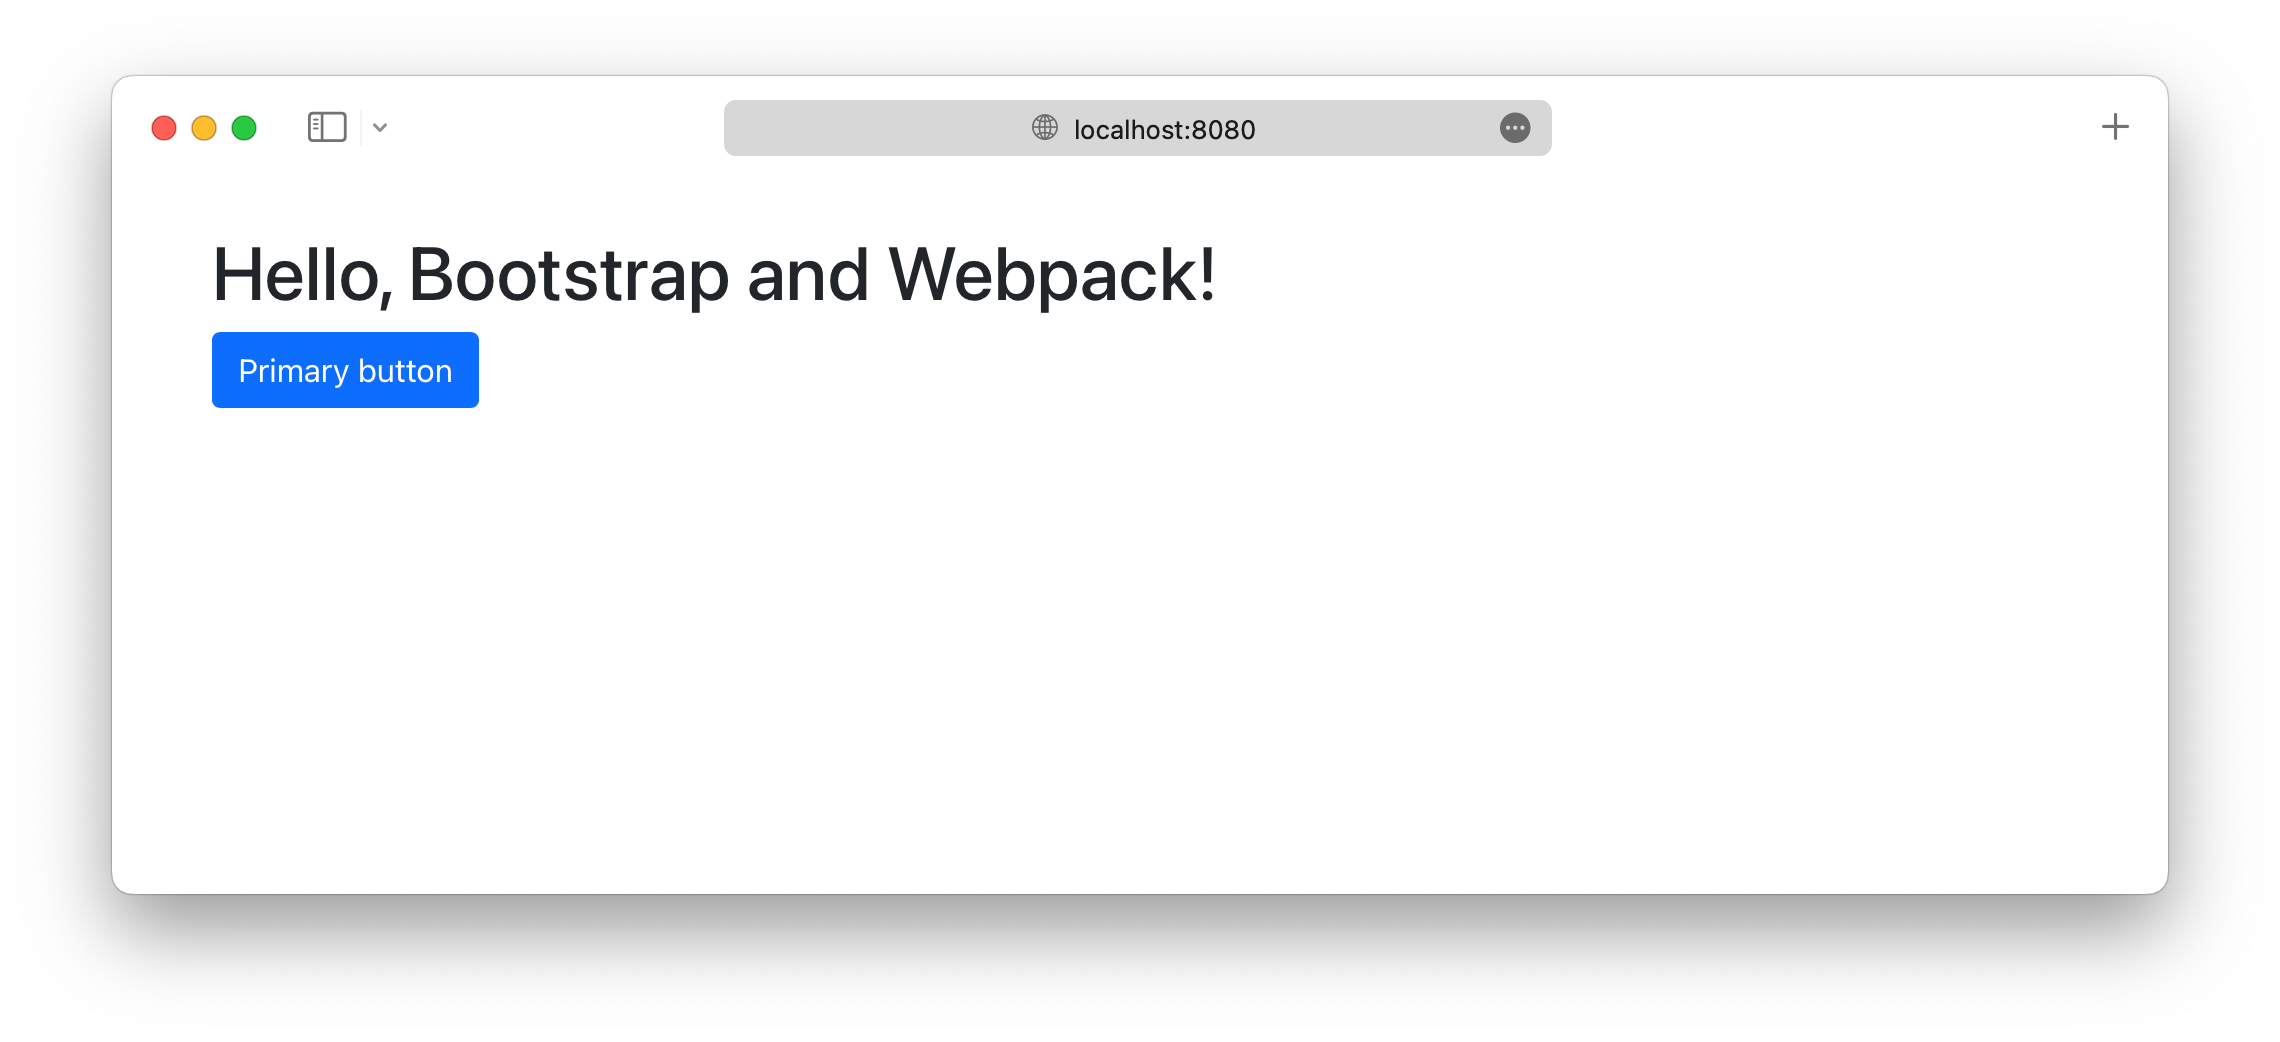
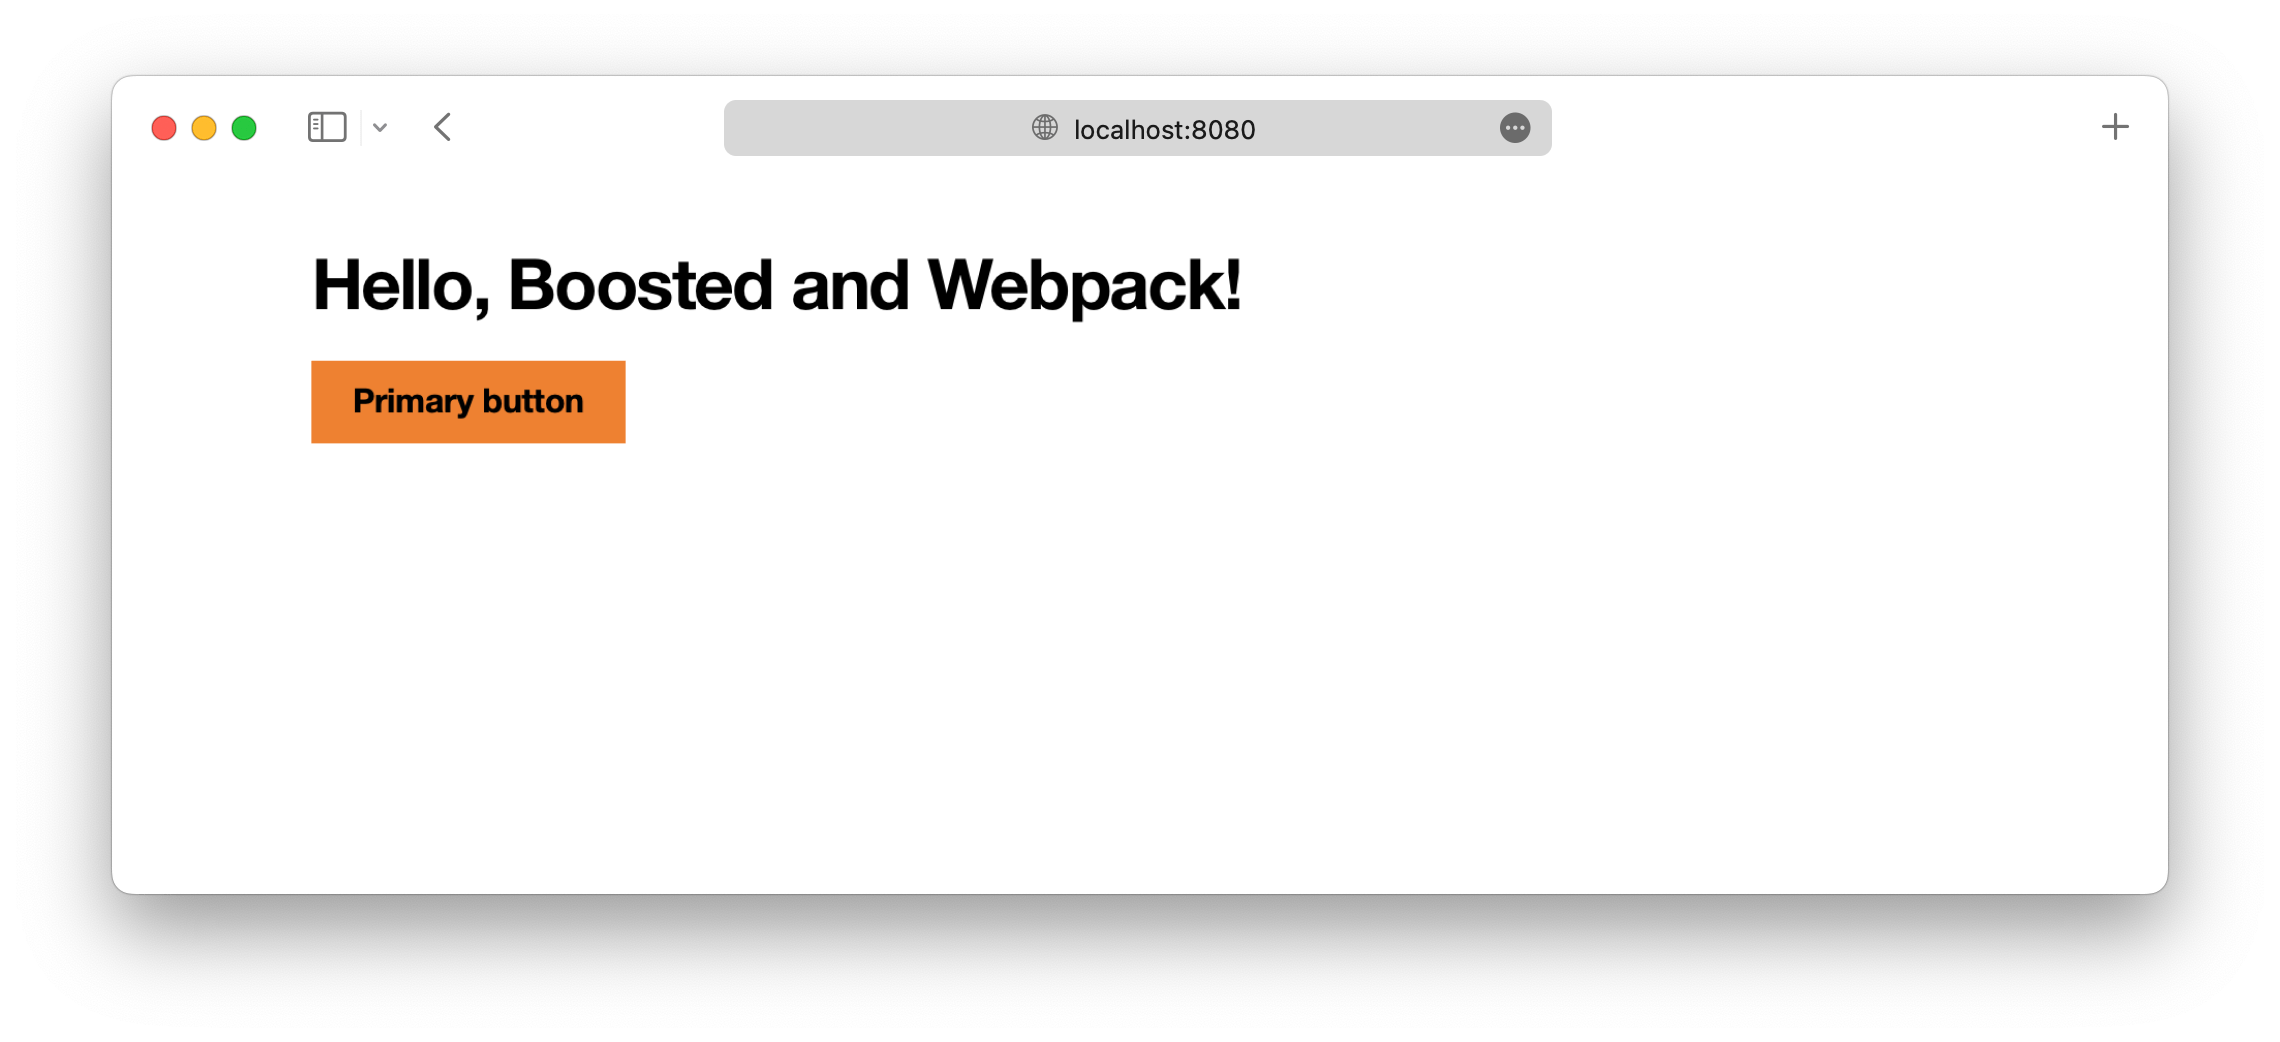
Improve Webpack guide

Changed region(s): [[0.0934, 0.2457, 0.5605, 0.4299]]

diff --git a/site/content/docs/5.2/getting-started/webpack.md b/site/content/docs/5.2/getting-started/webpack.md
@@ -201,19 +201,25 @@ Importing Boosted into Webpack requires the loaders we installed in the first se
 
    Here's a recap of why we need all these loaders. `style-loader` injects the CSS into a `<style>` element in the `<head>` of the HTML page, `css-loader` helps with using `@import` and `url()`, `postcss-loader` is required for Autoprefixer, and `sass-loader` allows us to use Sass.
 
-2. **Now, let's import Boosted's font and CSS.** Assuming that you already have the fonts inside your project, add the following to `src/scss/styles.scss` to import all of Boosted's source Sass.
+2. **Let's import Boosted's fonts.** Download the WOFF2 version of our Helvetica Neue fonts, **limited to Orange brand usage**: [see `NOTICE.txt` for more information about Helvetica Neue license]({{< param repo >}}/blob/v{{< param current_version >}}/NOTICE.txt).
+
+   ```sh
+   mkdir src/fonts
+   cp /path/HelvNeue55_W1G.woff2 src/fonts/
+   cp /path/HelvNeue75_W1G.woff2 src/fonts/
+   ```
+
+3. **Now, let's import Boosted's CSS.** Add the following to `src/scss/styles.scss` to import all of Boosted's source Sass.
 
    ```scss
    // Import all of Boosted's CSS
-   $font-path: "relative-path-to/font-folder/";
-
    @import "~boosted/scss/orange-helvetica";
    @import "~boosted/scss/boosted";
    ```
 
    *You can also import our stylesheets individually if you want. [Read our Sass import docs]({{< docsref "/customize/sass#importing" >}}) for details.*
 
-3. **Next we load the CSS and import Boosted's JavaScript.** Add the following to `src/js/main.js` to load the CSS and import all of Boosted's JS. Popper will be imported automatically through Boosted.
+4. **Next we load the CSS and import Boosted's JavaScript.** Add the following to `src/js/main.js` to load the CSS and import all of Boosted's JS. Popper will be imported automatically through Boosted.
 
    <!-- eslint-skip -->
    ```js
